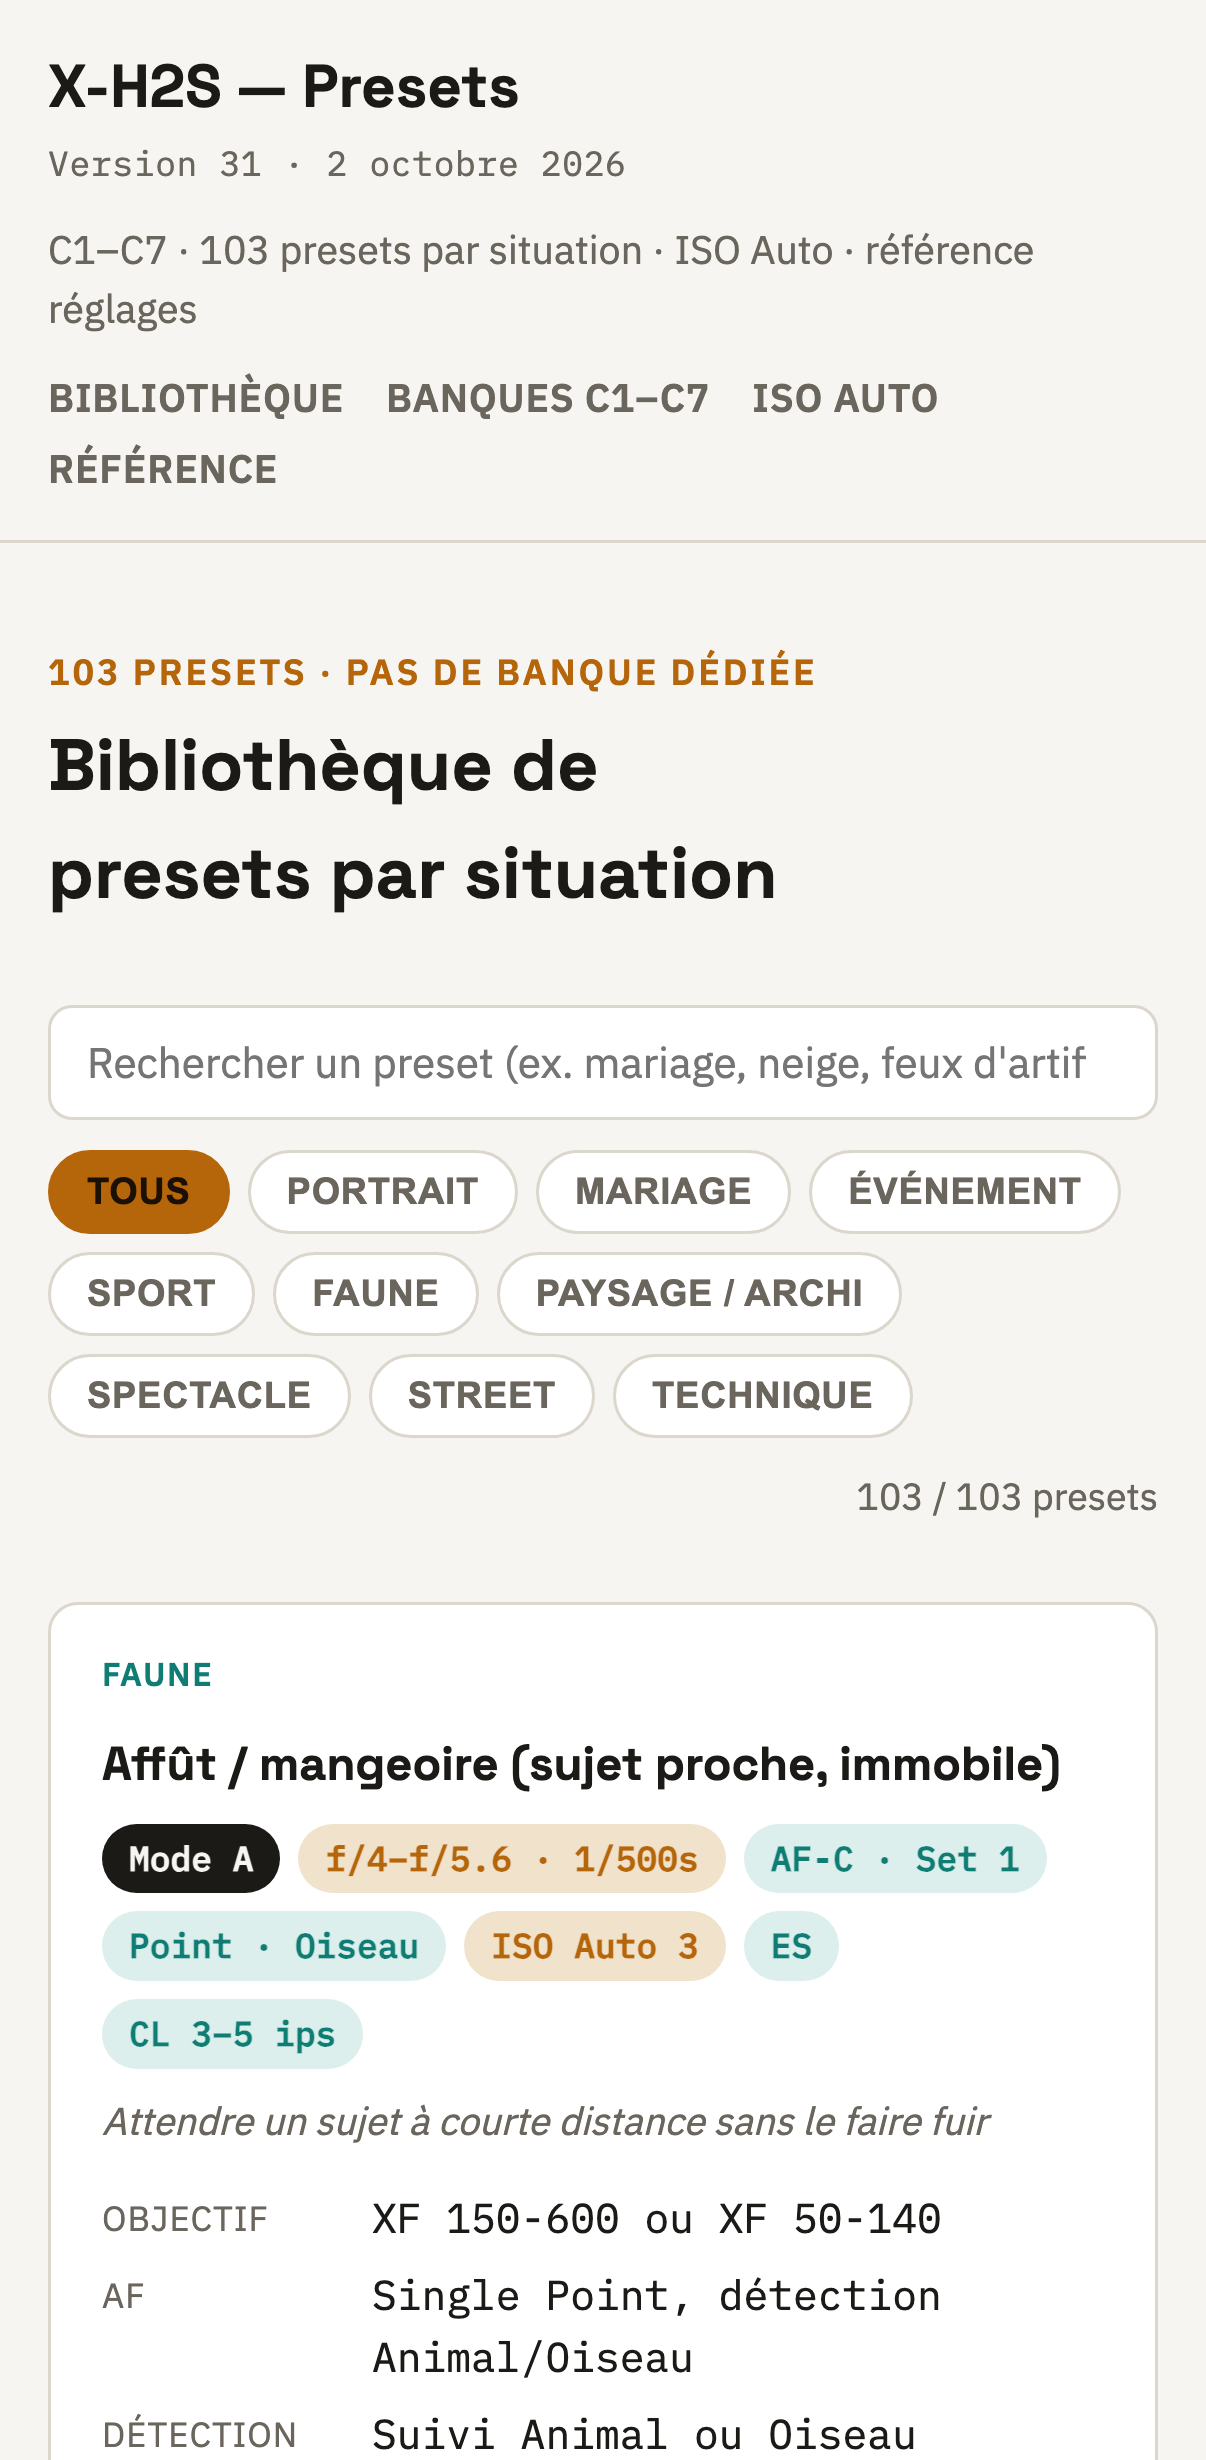
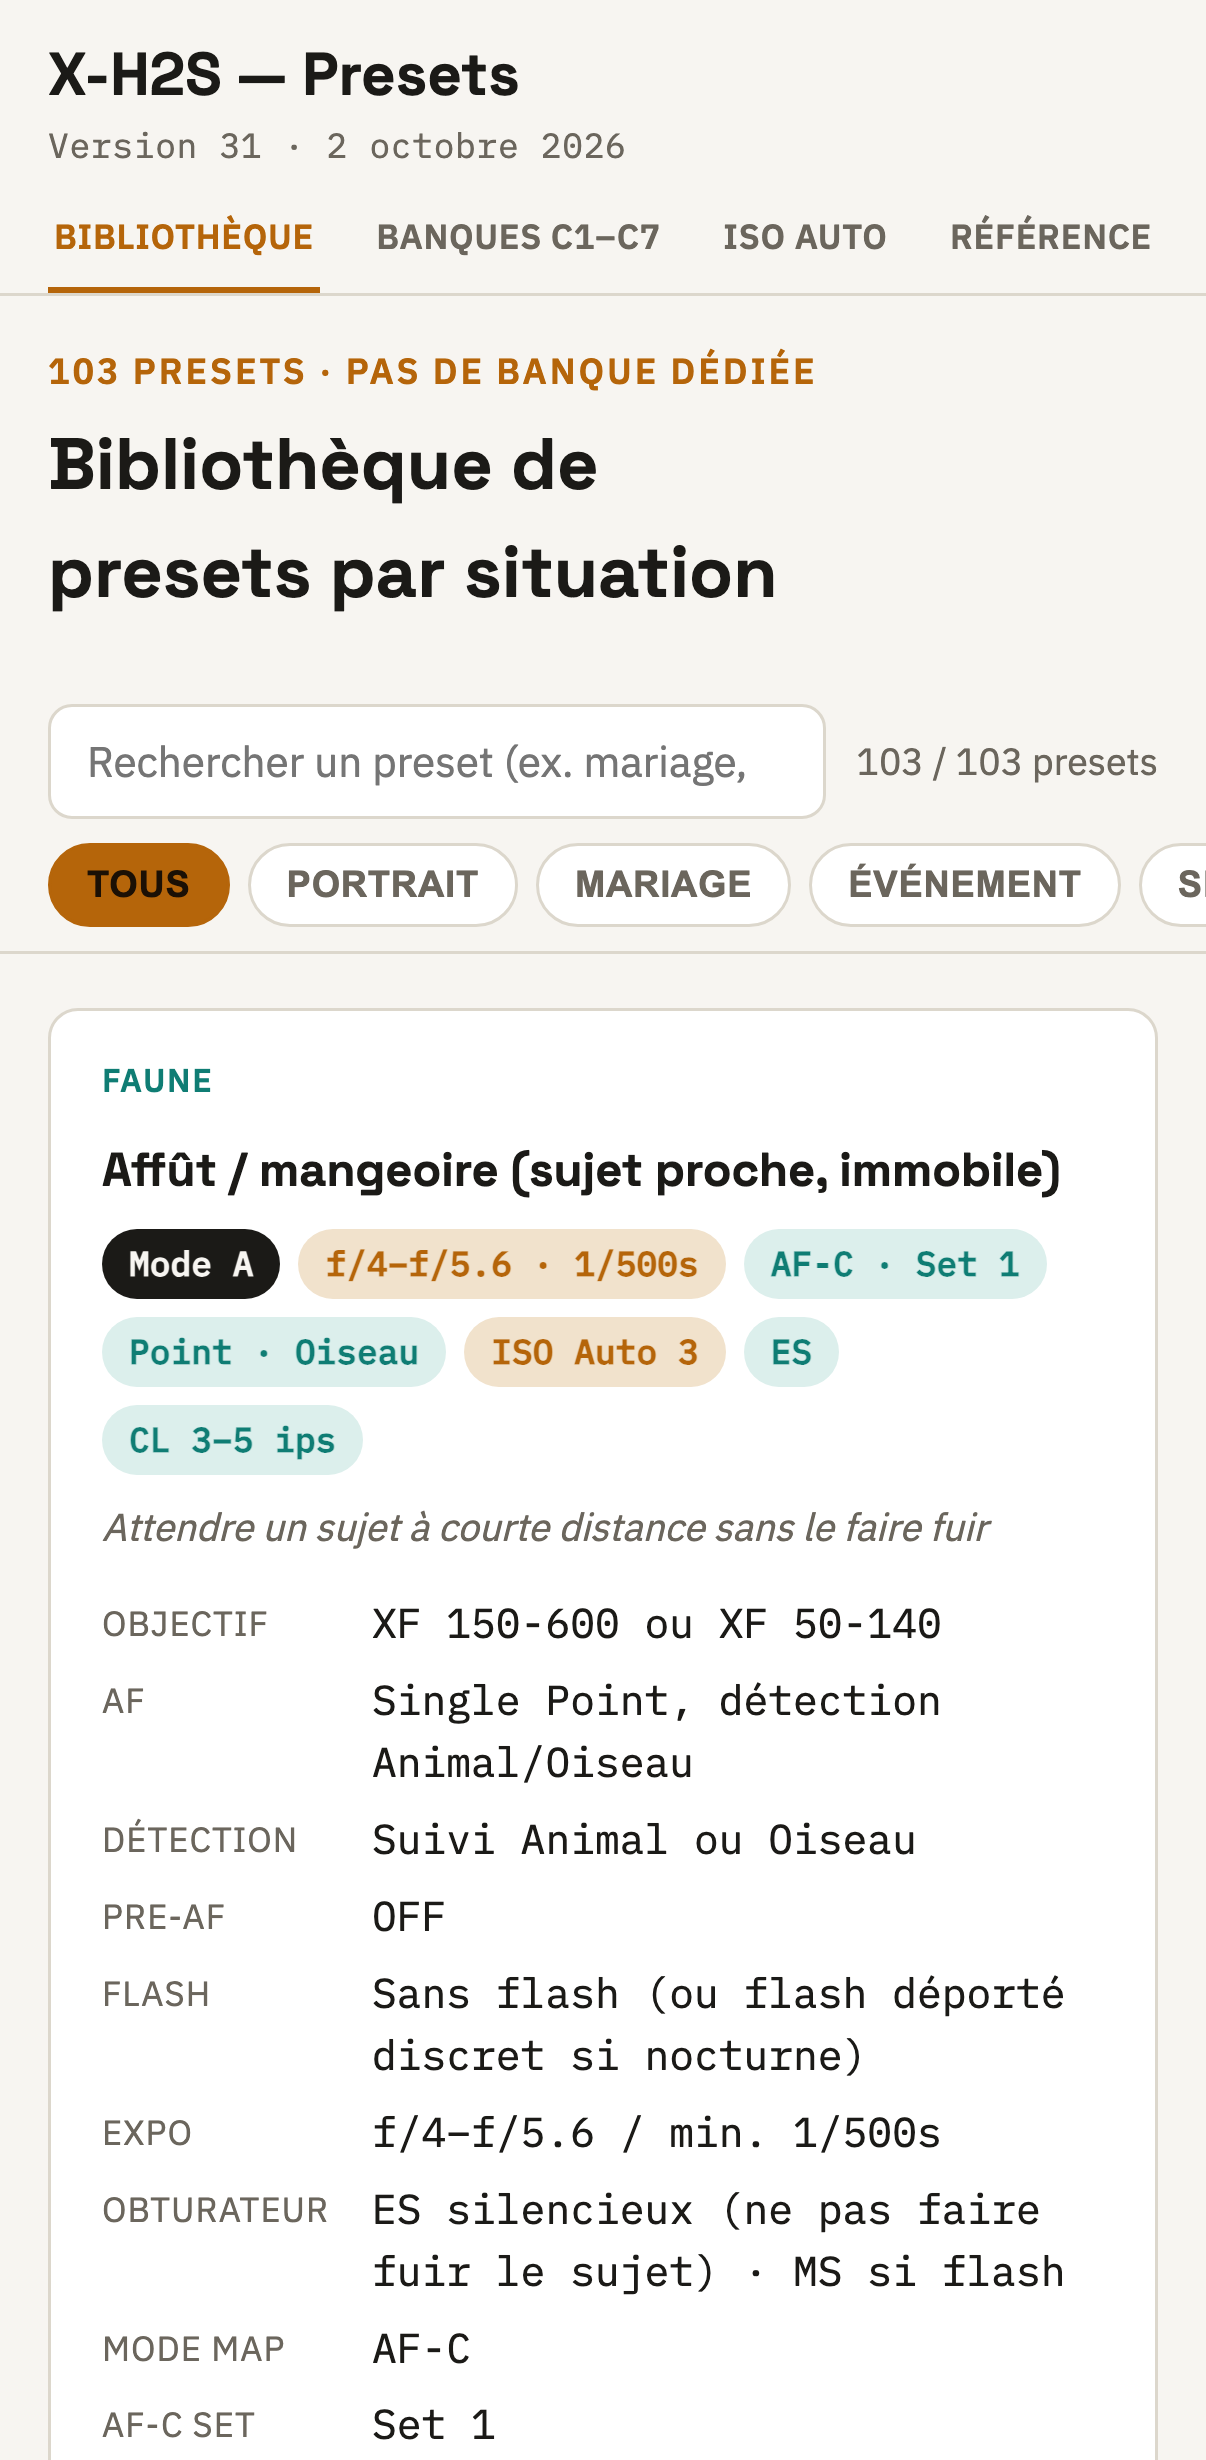
Téléphone : version sous le titre ; README à jour avec la vue par onglets
En-tête du téléphone : la version repasse sous le titre (elle se coupait sur
deux lignes à côté). README : captures refaites avec les onglets
(Bibliothèque, Banques C1–C7) et description des onglets.

diff --git a/index.html b/index.html
@@ -27,11 +27,11 @@ html.xh-phone[data-tab="banques"] section:not(#banques),
 html.xh-phone[data-tab="iso-auto"] section:not(#iso-auto),
 html.xh-phone[data-tab="reference"] section:not(#reference){ display:none; }
 html.xh-phone section{ padding-block:16px 28px; border-bottom:none; }
-/* En-tête compact : titre et version sur une ligne, onglets dessous */
+/* En-tête compact : titre, version, puis les onglets */
 html.xh-phone header.top{ padding-block:10px 0; }
 html.xh-phone header.top .wrap{ gap:6px; }
 html.xh-phone header.top .tagline{ display:none; }
-html.xh-phone header.top .titleblock{ flex-direction:row; align-items:baseline; justify-content:space-between; width:100%; }
+html.xh-phone header.top .titleblock{ width:100%; gap:0; }
 html.xh-phone nav.toc{ margin-left:0; width:100%; flex-wrap:nowrap; justify-content:space-between; gap:0; }
 html.xh-phone nav.toc a{ font-size:.72rem; white-space:nowrap; padding:7px 2px 8px; border-bottom:2px solid transparent; }
 html.xh-phone[data-tab="bibliotheque"] nav.toc a[href="#bibliotheque"],

diff --git a/README.md b/README.md
@@ -41,10 +41,10 @@ La page s'installe sur l'iPhone comme une application : une icône sur l'écran 
 <p>
   <img src="docs/iphone-bibliotheque.png" alt="La bibliothèque de presets à la largeur d'un iPhone" width="270">
   &nbsp;&nbsp;
-  <img src="docs/iphone-recherche.png" alt="Recherche « pluie » : 2 presets sur 103" width="270">
+  <img src="docs/iphone-banques.png" alt="L'onglet Banques C1–C7 à la largeur d'un iPhone" width="270">
 </p>
 
-*Rendu de la page à la largeur d'un iPhone 17 Pro : la bibliothèque, puis une recherche.*
+*Rendu de la page à la largeur d'un iPhone 17 Pro : l'onglet Bibliothèque, puis l'onglet Banques C1–C7.*
 
 ### Installation, étape par étape
 
@@ -60,13 +60,14 @@ La page s'installe sur l'iPhone comme une application : une icône sur l'écran 
 
 ### Utilisation
 
+- **Onglets** : sur téléphone, le menu du haut affiche une section à la fois — Bibliothèque, Banques C1–C7, ISO Auto, Référence. Chaque onglet retrouve sa position de défilement quand on y revient ; toucher l'onglet déjà affiché remonte en haut. Dans Bibliothèque, la recherche et les catégories restent collées sous les onglets ; la rangée de catégories défile horizontalement.
 - **Mise à jour** : rien à faire. À chaque ouverture avec du réseau, l'application recharge la version du dépôt (un push sur `main` suffit) ; le numéro de version est affiché sous le titre. Sans réseau, ou si la réponse tarde plus de 4 s, la copie locale s'affiche.
 - **Hors ligne** : la page, l'icône et les polices sont gardées sur l'iPhone par `sw.js`. iOS peut effacer cette copie si l'application n'est pas ouverte pendant plusieurs semaines ; une ouverture avec du réseau la reconstitue.
 - **Désinstallation** : appui long sur l'icône, puis **Supprimer l'app**.
 
 ### Fichiers concernés
 
-`manifest.webmanifest`, `sw.js`, `icons/` (générées par `app/scripts/make_icon.swift --web icons`) et le bloc « Application web » du `<head>` de `index.html`. Ce bloc n'existe pas dans `artifact-source.html`, qui n'a pas de `<head>`.
+`manifest.webmanifest`, `sw.js`, `icons/` (générées par `app/scripts/make_icon.swift --web icons`) et les blocs « Application web » et « Sur téléphone » du `<head>` de `index.html`. Ces blocs n'existent pas dans `artifact-source.html`, qui n'a pas de `<head>`.
 
 ## Publication GitHub Pages
 

diff --git a/CLAUDE.md b/CLAUDE.md
@@ -18,7 +18,7 @@ Référence de terrain pour le Fujifilm X-H2S de Dany (firmware 7.3). Ce fichier
 | `presets-x-h2s.md` | Export Markdown généré, jamais édité à la main. |
 | `tools/export_md.py` | Génère le Markdown : `python3 tools/export_md.py` (dépendance `beautifulsoup4`). |
 | `app/` | Application macOS native « Presets X-H2S » (Swift, `app/build.sh --install`). Affiche `index.html`, se met à jour depuis la branche `main` à chaque lancement, imprime les fiches sélectionnées (`app/Resources/selection.js`, injecté : la page n'est pas modifiée). |
-| `manifest.webmanifest`, `sw.js`, `icons/` | Application web pour iPhone servie par GitHub Pages (<https://mdany75.github.io/presets-x-h2s/>), avec le bloc « Application web » du `<head>` de `index.html`. Ce bloc est le seul contenu de `index.html` absent de `artifact-source.html` (qui n'a pas de `<head>`) : la comparaison des deux fichiers porte sur le contenu de `<body>`. |
+| `manifest.webmanifest`, `sw.js`, `icons/` | Application web pour iPhone servie par GitHub Pages (<https://mdany75.github.io/presets-x-h2s/>), avec les blocs « Application web » et « Sur téléphone » (une section à la fois, menu en onglets) du `<head>` de `index.html`. Ces blocs sont le seul contenu de `index.html` absent de `artifact-source.html` (qui n'a pas de `<head>`) : la comparaison des deux fichiers porte sur le contenu de `<body>`. |
 
 ## Schéma d'une fiche (objet dans DATA)
 
